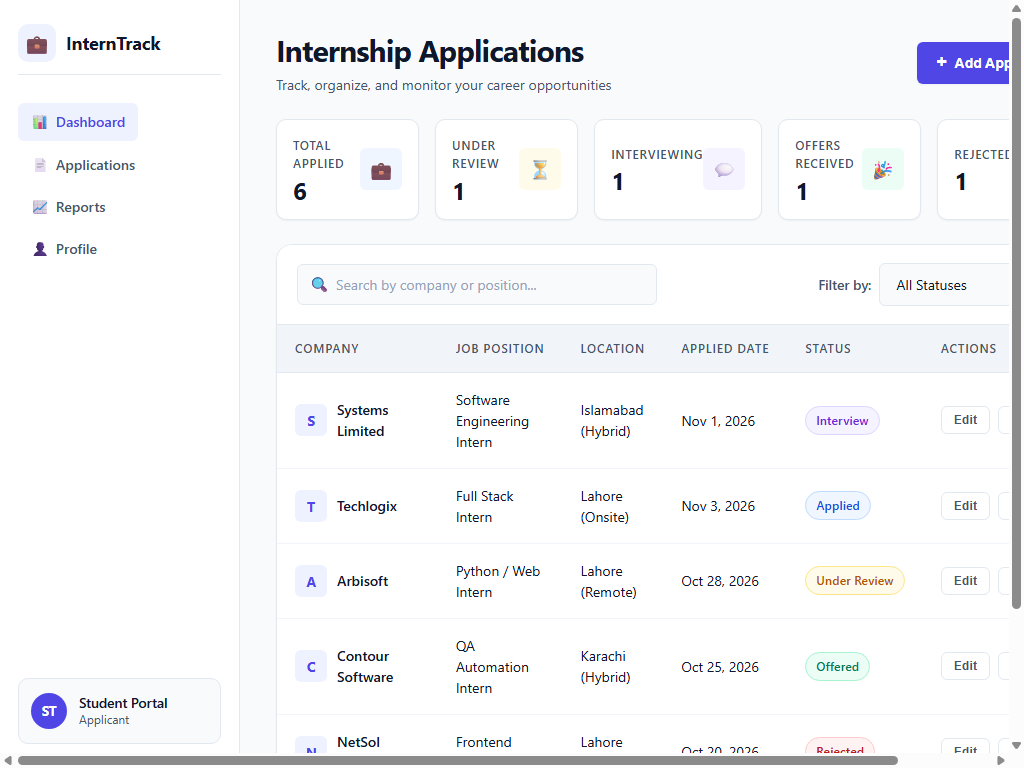
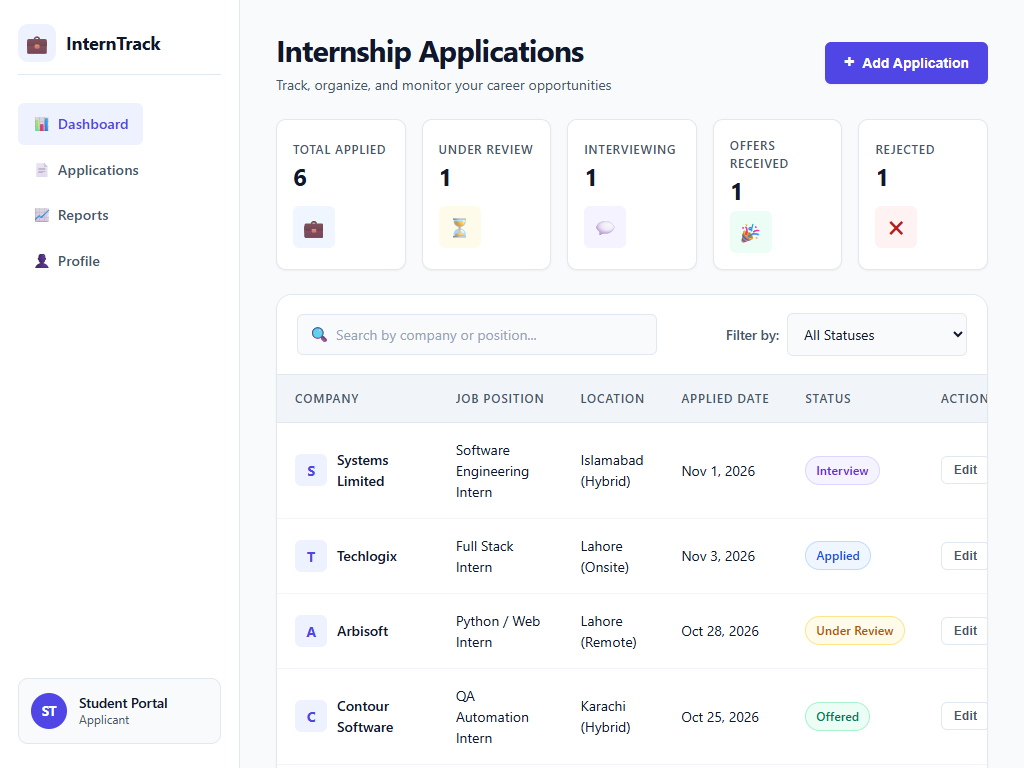
Fix horizontal overflow at 1024px and 320px; correct docs; retake desktop-1024 and mobile-375 screenshots

diff --git a/assignment-1/css/style.css b/assignment-1/css/style.css
@@ -333,7 +333,7 @@ body {
    -------------------------------------------------------------------------- */
 .stats-section {
   display: grid;
-  grid-template-columns: repeat(2, 1fr);
+  grid-template-columns: repeat(2, minmax(0, 1fr)); /* minmax(0, ...) lets columns shrink instead of overflowing the page */
   gap: 12px;
   margin-bottom: 24px;
 }
@@ -346,6 +346,8 @@ body {
   display: flex;
   align-items: center;
   justify-content: space-between;
+  flex-wrap: wrap; /* if the card is too narrow, the icon badge drops below the text instead of overlapping it */
+  gap: 8px;
   box-shadow: var(--shadow-sm);
   transition: var(--transition);
 }
@@ -901,7 +903,7 @@ body {
 
   /* Expand Stats Grid to 3 Columns on Tablet */
   .stats-section {
-    grid-template-columns: repeat(3, 1fr);
+    grid-template-columns: repeat(3, minmax(0, 1fr));
     gap: 16px;
   }
 
@@ -1069,11 +1071,12 @@ body {
     padding: 32px 36px 48px;
     max-width: none;
     margin: 0;
+    min-width: 0; /* grid items default to min-width:auto; 0 lets the table container scroll instead of widening the page */
   }
 
   /* Expand Stats Grid to 5 Columns on Desktop */
   .stats-section {
-    grid-template-columns: repeat(5, 1fr);
+    grid-template-columns: repeat(5, minmax(0, 1fr));
     gap: 16px;
   }
 

diff --git a/README.md b/README.md
@@ -11,7 +11,7 @@ A responsive, single-page web application that helps a university student record
 | **Author** | DANYAL AQEEL |
 | **Roll Number** | 503823 |
 | **Repository** | [https://github.com/DANYALAQEEL/Internship-Application-Tracker](https://github.com/DANYALAQEEL/Internship-Application-Tracker) |
-| **Live URL** | None documented. Run locally using the steps in [§7](#7-running-the-application-locally). |
+| **Live URL** | [https://danyalaqeel.github.io/Internship-Application-Tracker/](https://danyalaqeel.github.io/Internship-Application-Tracker/) |
 
 ---
 
@@ -82,7 +82,7 @@ Internship-Application-Tracker/
 │   │   └── style.css       # All styling and responsive rules
 │   ├── js/
 │   │   └── app.js          # Data, rendering, search/filter, validation, dialog logic
-│   └── assets/             # Present in the repository; not referenced by the current code
+│   └── assets/             # Placeholder folder (currently empty); not referenced by the code
 ├── docs/
 │   ├── PROJECT_BRIEF.md    # Requirements, data model, sample dataset, validation rules
 │   ├── wireframe.md        # Interface layouts and component specification
@@ -221,7 +221,7 @@ The CSS is mobile-first, with two breakpoints (`min-width: 768px` and `min-width
 | **768 – 1023 px** (tablet) | Compact top bar | 3 columns (3 + 2) | Standard **table** in a horizontally scrollable container | Search and filter side by side |
 | **≥ 1024 px** (desktop) | Persistent 240 px sidebar (CSS Grid layout) with user badge | 5 columns | Standard table | Search and filter side by side |
 
-The Add/Edit dialog is centred, up to 540 px wide, and scrolls internally on short screens. Layout was checked at 375, 768, 1024 and 1440 px in Chromium. Details: [`docs/design-note.md`](docs/design-note.md) §4 and [`docs/wireframe.md`](docs/wireframe.md).
+The Add/Edit dialog is centred, up to 540 px wide, and scrolls internally on short screens. Layout was checked at 375, 768, 1024 and 1440 px in Chromium, and the page was measured for horizontal overflow at widths from 320 px to 1440 px (none found). In narrow dashboard cards (for example around 1024 px) the icon badge wraps below the label instead of overlapping it. Details: [`docs/design-note.md`](docs/design-note.md) §4 and [`docs/wireframe.md`](docs/wireframe.md).
 
 ---
 
@@ -252,7 +252,7 @@ The screenshots below were captured from the fully interactive working applicati
 | Viewport / View | Screenshot Link | Description |
 | :--- | :--- | :--- |
 | **Large Desktop — 1440 px** | [`docs/screenshots/desktop-1440.png`](docs/screenshots/desktop-1440.png) | Two-column CSS Grid shell, 240 px persistent sidebar, five-metric dashboard cards row, and full interactive records table. |
-| **Small Desktop — 1024 px** | [`docs/screenshots/desktop-1024.png`](docs/screenshots/desktop-1024.png) | Two-column layout at the desktop breakpoint threshold. |
+| **Small Desktop — 1024 px** | [`docs/screenshots/desktop-1024.png`](docs/screenshots/desktop-1024.png) | Two-column layout at the desktop breakpoint; all five dashboard cards and the *Add Application* button fit without horizontal page scrolling, and the records table scrolls inside its own container. |
 | **Tablet — 768 px** | [`docs/screenshots/tablet-768.png`](docs/screenshots/tablet-768.png) | Compact navigation bar, 3-column dashboard statistics grid, and horizontally scrollable table container. |
 | **Mobile — 375 px** | [`docs/screenshots/mobile-375.png`](docs/screenshots/mobile-375.png) | Mobile single-column view with 2-column statistics (5th card spanning full width) and records converted to stacked cards via `data-label`. |
 | **Add / Edit Modal Dialog** | [`docs/screenshots/dialog-add.png`](docs/screenshots/dialog-add.png) | Native HTML5 `<dialog>` opened in modal mode with backdrop overlay and form inputs. |

diff --git a/docs/CSS_AUDIT.md b/docs/CSS_AUDIT.md
@@ -29,8 +29,8 @@ The application was loaded in headless Chromium across 4 viewports. Actual rende
 
 | Viewport | Target Device | Rendered Dimensions | Screenshot Artifact | Test Outcome |
 | :--- | :--- | :--- | :--- | :--- |
-| **375px** | Mobile Smartphone | 375 × 812 px | [`screenshots/mobile-375.png`](screenshots/mobile-375.png) | **PASS** — No horizontal scroll; stats wrap into 2×2 grid; sidebar collapses to clean horizontal bar; toolbar stacks vertically. |
-| **768px** | Tablet / iPad | 768 × 1024 px | [`screenshots/tablet-768.png`](screenshots/tablet-768.png) | **PASS** — Stats expand into 4-column row; search and filter align horizontally; table returns to standard tabular display. |
+| **375px** | Mobile Smartphone | 375 × 812 px | [`screenshots/mobile-375.png`](screenshots/mobile-375.png) | **PASS** — No horizontal scroll; stats form a 2-column grid (the fifth card spans both columns); sidebar collapses to clean horizontal bar; toolbar stacks vertically. |
+| **768px** | Tablet / iPad | 768 × 1024 px | [`screenshots/tablet-768.png`](screenshots/tablet-768.png) | **PASS** — Stats expand into a 3-column grid (3 + 2); search and filter align horizontally; table returns to standard tabular display. |
 | **1024px** | Laptop / Small Desktop | 1024 × 768 px | [`screenshots/desktop-1024.png`](screenshots/desktop-1024.png) | **PASS** — 2-column CSS Grid triggers (`240px 1fr`); sticky vertical sidebar renders with navigation and user badge. |
 | **1440px** | Large Desktop | 1440 × 900 px | [`screenshots/desktop-1440.png`](screenshots/desktop-1440.png) | **PASS** — Generous whitespace, comfortable reading lines, aligned action buttons. |
 
@@ -135,3 +135,17 @@ The CSS styling is structurally sound, conforms to all course rules, and renders
 
 **Recommended Next Step:**
 Proceed directly to **Step 5 (JavaScript implementation in `assignment-1/js/app.js`)** to bind data, populate the 6 records, calculate dashboard metrics, and activate the search, filter, and modal workflows.
+
+---
+
+## 7. Addendum — Re-check After JavaScript Integration
+
+The audit above was performed before `app.js` rendered any records, so the table was empty. After the JavaScript was integrated, horizontal overflow was measured in headless Chromium (document `scrollWidth` versus `clientWidth`) at widths from 320 px to 1440 px.
+
+| Finding | Detail | Resolution |
+| :--- | :--- | :--- |
+| Page overflowed sideways between 1024 px and about 1145 px | 122 px of overflow at 1024 px: the *Add Application* button, the fifth dashboard card and the table's Actions column were cut off. Cause: the desktop grid column (`1fr`) could not shrink below the table's minimum content width. | `min-width: 0` added to `.main-content` in the 1024 px media query, so the table scrolls inside `.table-container`. |
+| Dashboard cards forced a minimum width | At 1024 px and at 320 px the stat grids (`1fr` columns) could not shrink below the card content width. | Stat grids changed to `minmax(0, 1fr)`; `.stat-card` allowed to `flex-wrap` so the icon badge wraps below the label when the card is narrow. |
+| Placeholder contrast | Recalculated at about 2.56 : 1 (`#94a3b8` on white); the figure of 2.44 : 1 above is slightly different but both are below 4.5 : 1. | Not changed (see Finding L-01). |
+
+After the fix, no horizontal page overflow was measured at any of 320, 360, 375, 414, 600, 767, 768, 900, 1023, 1024, 1100, 1200, 1280, 1366 and 1440 px. Findings L-01 and L-02 above remain unresolved. Only Chromium was used.

diff --git a/docs/design-note.md b/docs/design-note.md
@@ -73,7 +73,7 @@ The project follows six stages. The stage names below are used consistently in t
 
 ### Stage 4 — Testing
 What was done:
-- Layout was checked at four viewport widths (375, 768, 1024 and 1440 px) in headless Chromium during the CSS audit ([`CSS_AUDIT.md`](CSS_AUDIT.md)). That audit was performed *before* the JavaScript was written, so it covers layout, not behaviour.
+- Layout was checked at four viewport widths (375, 768, 1024 and 1440 px) in headless Chromium during the CSS audit ([`CSS_AUDIT.md`](CSS_AUDIT.md)). That audit was performed *before* the JavaScript was written, so it covers layout, not behaviour. After the JavaScript was integrated, the page was measured for horizontal overflow at widths from 320 px to 1440 px; an overflow found between 1024 px and about 1145 px was corrected (see the addendum in `CSS_AUDIT.md`).
 - After a form-validation correction (native browser validation was preventing the custom inline error messages from showing), the Add, Edit, Delete, search, filter and validation workflows were exercised in Chromium with scripted browser interactions, including clicking *Save* with an empty form, too-short text, invalid URLs, an out-of-range date, whitespace-only input and a successful add and edit. These scripts are not part of the repository.
 
 What was **not** done: testing in Firefox or Safari, testing on physical phones or tablets, testing with a screen reader, and a formal automated test suite.
@@ -155,7 +155,7 @@ The stylesheet is written **mobile-first**: the base rules describe the narrow l
 
 The *Add / Edit* dialog is a native `<dialog>` opened with `showModal()`. It is centred, is `100% − 32 px` wide up to a maximum of 540 px, scrolls inside itself when the screen is short (maximum height 90 vh), and uses a dimmed, slightly blurred backdrop.
 
-**Limits of this strategy.** The action buttons (*Edit*, *Delete*) are about 28 px tall and do not meet the 44 px touch-target guideline. Layout was checked at 375, 768, 1024 and 1440 px in Chromium only.
+**Limits of this strategy.** Between 1024 px and roughly 1200 px the five dashboard cards are narrow, so each card's icon badge wraps below its label (`flex-wrap`). The records table is wider than the main column at these widths and scrolls inside its own container. The action buttons (*Edit*, *Delete*) are about 28 px tall and do not meet the 44 px touch-target guideline. Layout was checked at 375, 768, 1024 and 1440 px in Chromium only.
 
 ---
 

diff --git a/docs/wireframe.md b/docs/wireframe.md
@@ -158,7 +158,7 @@ Five cards, always calculated from **all** records (they do not change when a se
 | 4 | **Offers Received** | `Offered` | 1 |
 | 5 | **Rejected** | `Rejected` | 1 |
 
-Each card has a text label, a large number and a coloured icon badge. Cards are grouped as 2 columns (mobile, with the fifth spanning two), 3 columns (tablet) or 5 columns (desktop).
+Each card has a text label, a large number and a coloured icon badge. In narrow cards (for example around 1024 px, or at 320 px) the icon badge wraps below the number instead of sitting to the right. Cards are grouped as 2 columns (mobile, with the fifth spanning two), 3 columns (tablet) or 5 columns (desktop).
 
 ---
 
